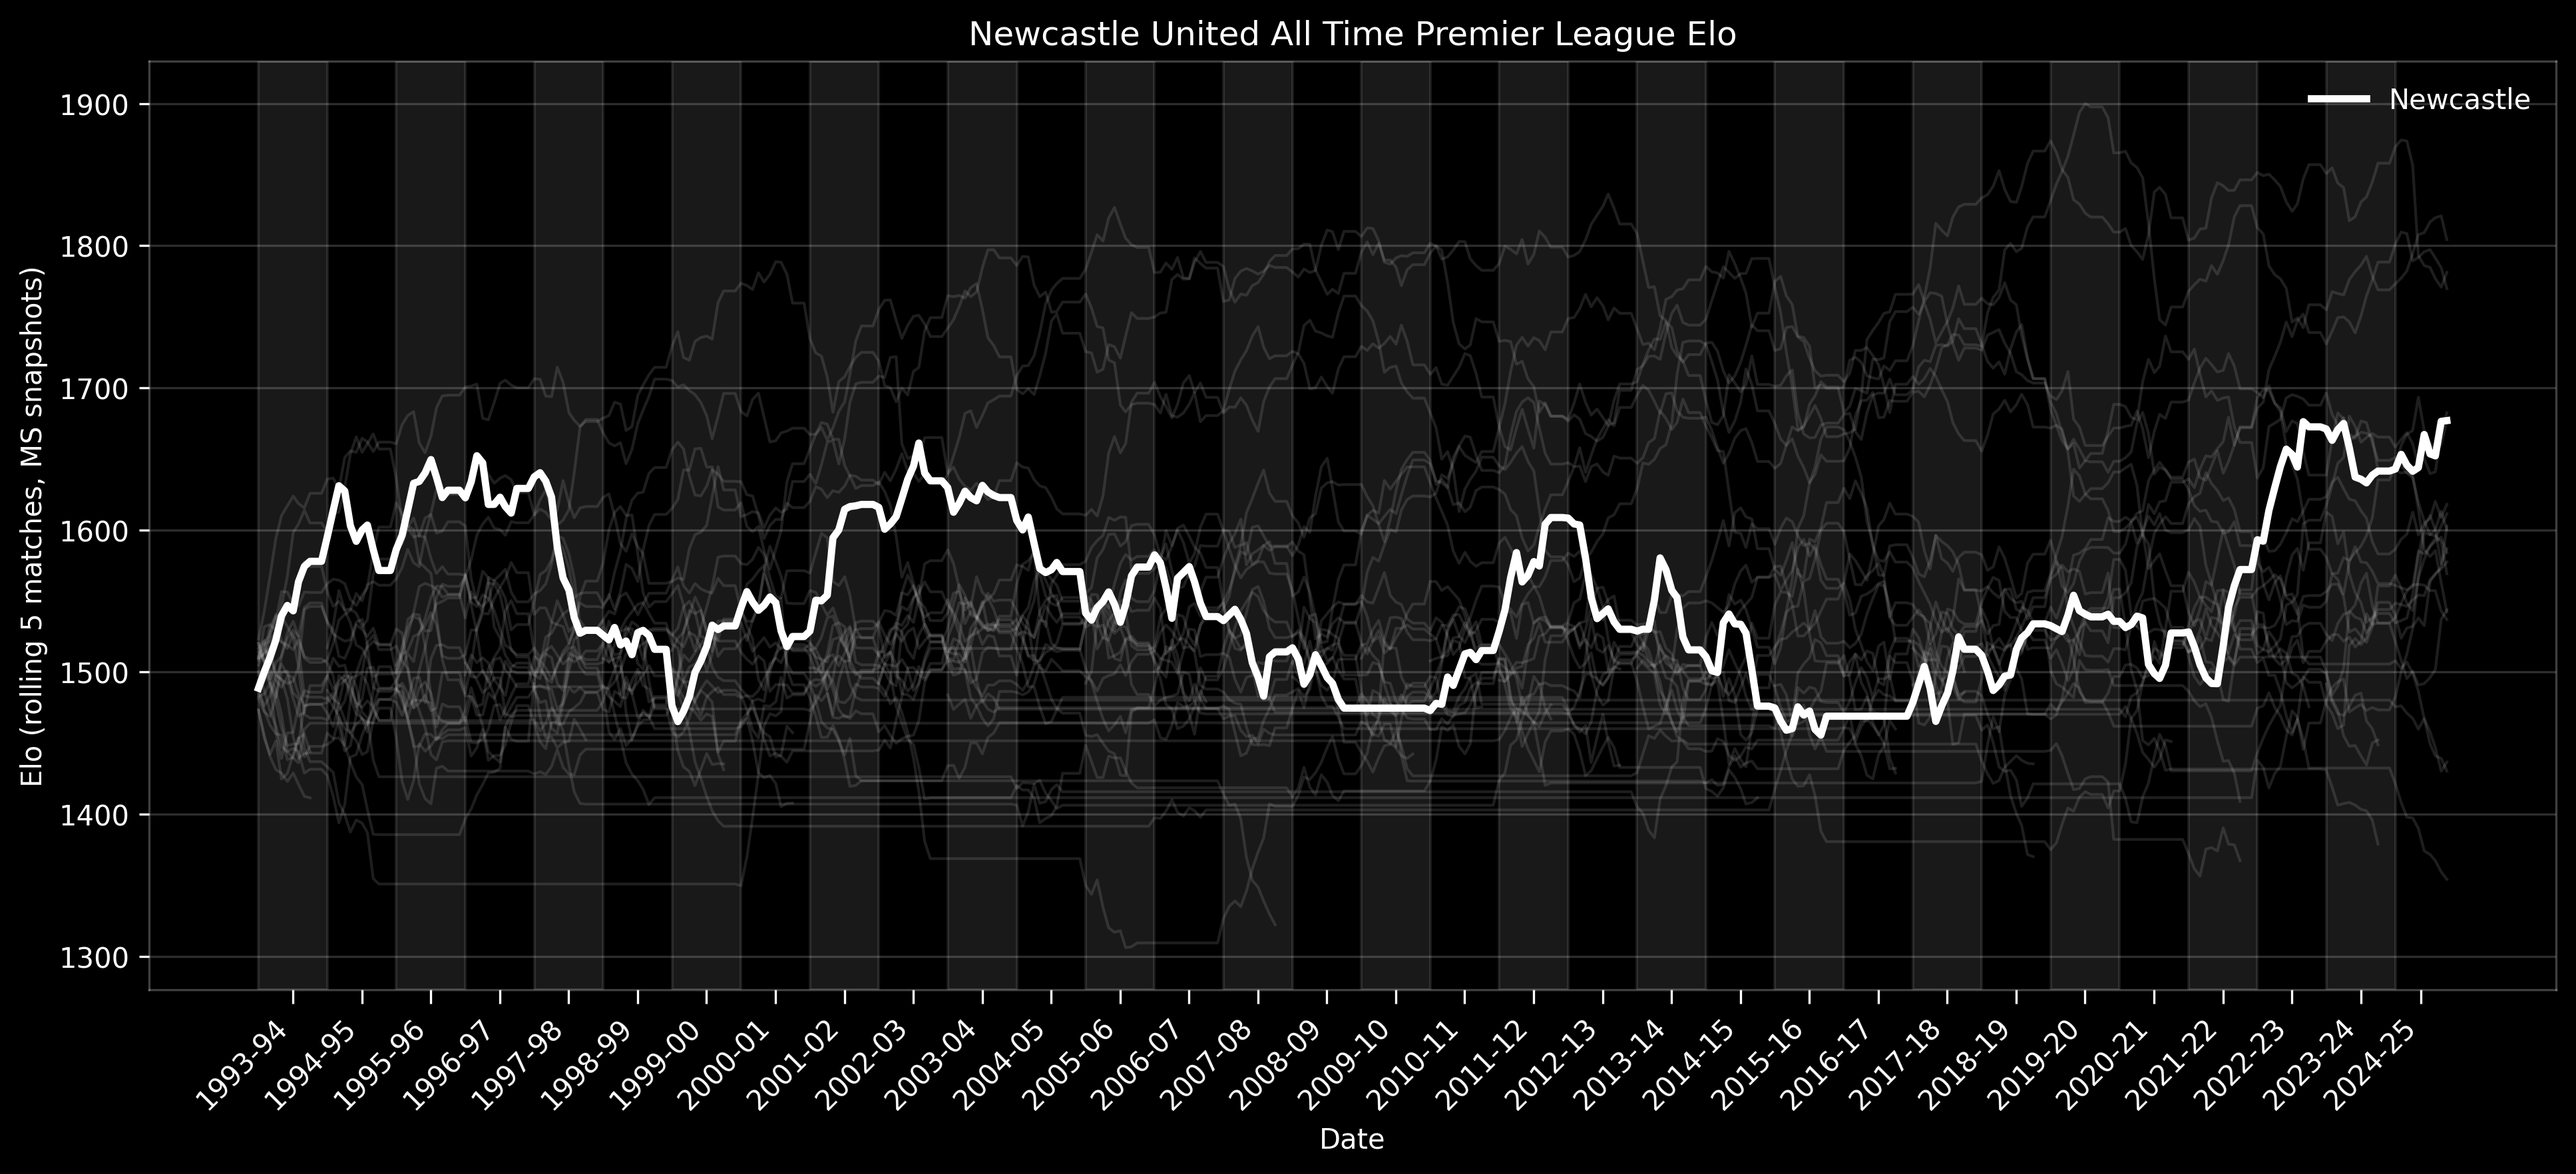
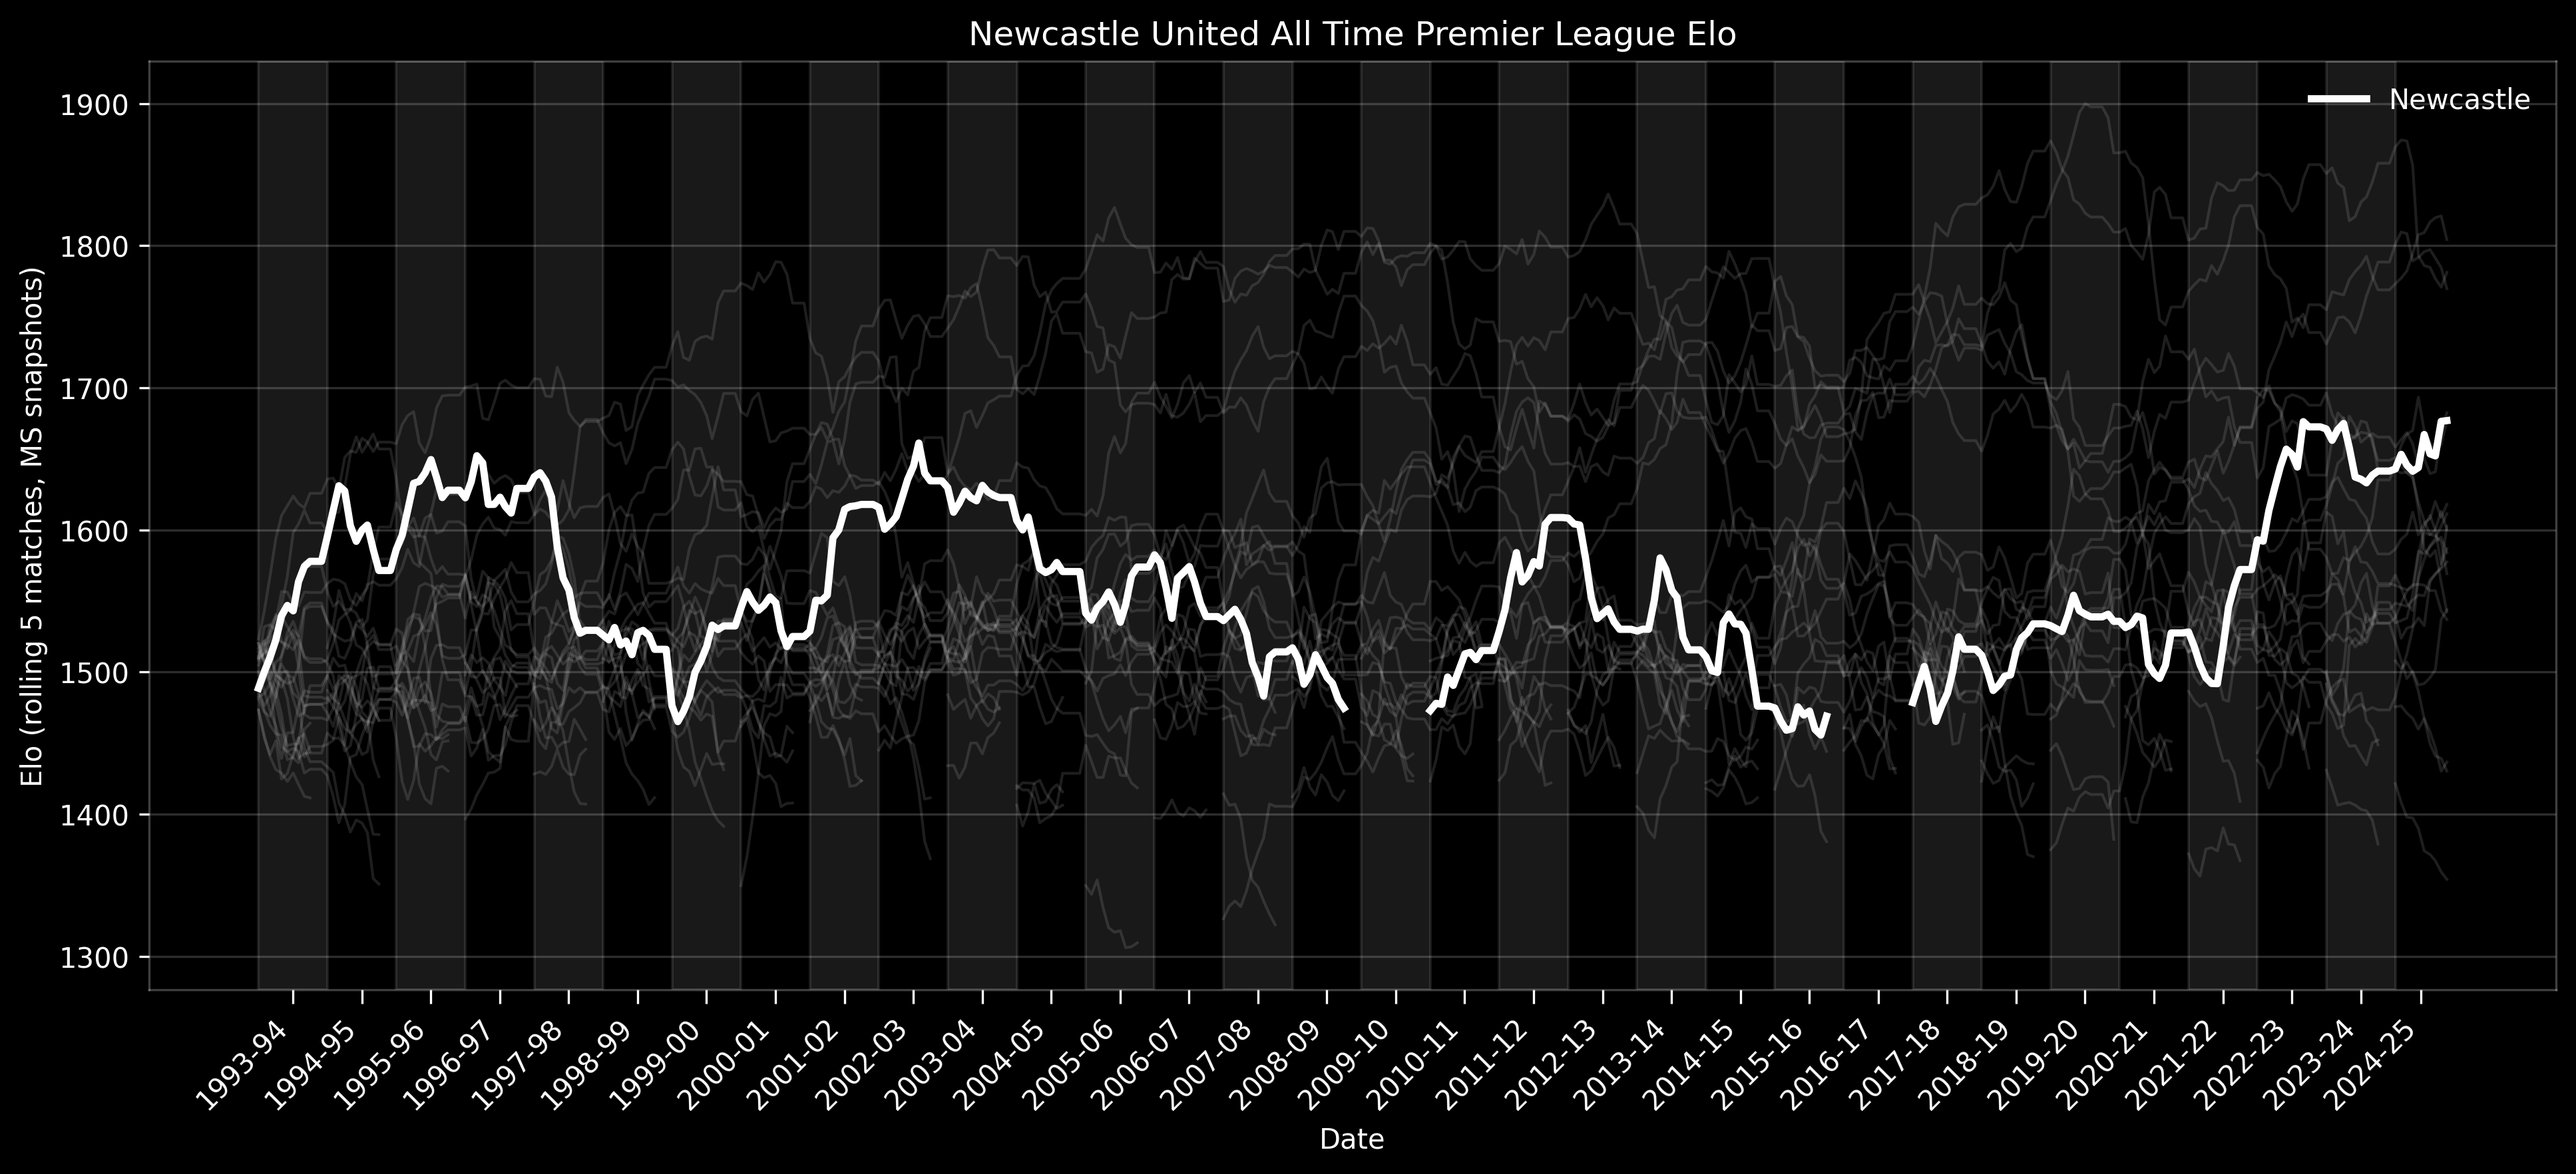
Added LeagueSpell function to break lines between relegations

Changed region(s): [[0.186, 0.5921, 0.8682, 0.6856], [0.8372, 0.6544, 0.8682, 0.6856], [0.186, 0.6544, 0.2171, 0.6856]]

diff --git a/src/plotting.py b/src/plotting.py
@@ -5,15 +5,48 @@ import matplotlib.pyplot as plt
 
 def add_season_column(df: pd.DataFrame, date_col: str = "Date") -> pd.DataFrame:
     """
-    Premier League season runs Aug–May. Label season by its start year.
-    Example: 2022-09-01 -> Season 2022 (i.e., 2022–23).
+    Premier League season runs Aug–May so create a Season Start and Season column
+    Example: 2022-09-01 -> Season Start: 2022, Season: 2022-2023
     """
     out = df.copy()
     out[date_col] = pd.to_datetime(out[date_col])
 
-    start_year = out[date_col].dt.year - (out[date_col].dt.month < 8)
+    season_start = out[date_col].dt.year - (out[date_col].dt.month < 8)
 
-    out["Season"] = start_year.astype(str) + "-" + (start_year + 1).astype(str).str[-2:]
+    out["SeasonStart"] = season_start.astype("int16")
+    out["Season"] = season_start.astype(str) + "-" + (season_start + 1).astype(str).str[-2:]
+
+    return out
+
+def add_spell_column(df: pd.DataFrame) -> pd.DataFrame:
+    """
+    Add a Spell column so lines stay connected across consecutive seasons
+    and break when a team misses one or more seasons.
+    """
+    out = df.copy()
+
+    # Unique team-season combinations
+    team_seasons = (
+        out[["Team", "SeasonStart"]]
+        .drop_duplicates()
+        .sort_values(["Team", "SeasonStart"])
+    )
+
+    # New spell whenever season gap > 1
+    team_seasons["LeagueSpell"] = (
+        team_seasons.groupby("Team")["SeasonStart"]
+        .diff()
+        .gt(1)
+        .groupby(team_seasons["Team"])
+        .cumsum()
+        .astype(int)
+    )
+
+    out = out.merge(
+        team_seasons[["Team", "SeasonStart", "LeagueSpell"]],
+        on=["Team","SeasonStart"],
+        how="left",
+    )
 
     return out
 
@@ -23,8 +56,9 @@ def prep_monthly_smoothed_elo(
     resample_rule: str = "W",  # Week start. Alternatives: "MS" month start, "M" month end
 ) -> pd.DataFrame:
     """
-    Smooth Elo per team (rolling by matches) then reduce to monthly snapshots for cleaner lines.
-    Expected columns: Date, Team, Elo
+    Smooth Elo per team, resample within each team-season,
+    and assign a Spell so plotting breaks across missed seasons
+    but stays joined across consecutive seasons in the league.
     """
     df = elo_long[["Date", "Team", "EloPost"]].copy()
     df["Date"] = pd.to_datetime(df["Date"])
@@ -32,14 +66,18 @@ def prep_monthly_smoothed_elo(
 
     # 5-game rolling average per team (match-based smoothing)
     df["EloSmooth"] = (
-        df.groupby("Team")["EloPost"]
+        df.groupby("Team", sort=False)["EloPost"]
           .transform(lambda s: s.rolling(window=smooth_games, min_periods=1).mean())
     )
 
-    # Monthly snapshot per team
-    df = df.set_index("Date")
+    # Add season metadata and continuous participation blocks
+    df = add_season_column(df)
+    df = add_spell_column(df)
+
+    # Resample only within each continous spell
     out = (
-        df.groupby("Team")["EloSmooth"]
+        df.set_index("Date")
+          .groupby(["Team", "LeagueSpell"])["EloSmooth"]
           .resample(resample_rule)
           .last()
           .ffill()
@@ -47,9 +85,10 @@ def prep_monthly_smoothed_elo(
           .rename(columns={"EloSmooth": "Elo"})
     )
 
-    out["Date"] = pd.to_datetime(out["Date"])
+    # Re-attach season labels after resampling
     out = add_season_column(out)
-    out = out.sort_values(["Team", "Date"]).reset_index(drop=True)
+
+    out = out.sort_values(["Team", "LeagueSpell", "Date"]).reset_index(drop=True)
     return out
 
 
@@ -67,6 +106,7 @@ def plot_elo_over_time(
     - 5-game rolling smoothing (match-based)
     - resampled snapshots (weekly, monthly etc.)
     - alternating grey season shading
+    - line breaks when teams relegated, lines reconnect across consecutive seasons
     - optional faint lines for all other teams + highlighted teams on top
     """
     df = prep_monthly_smoothed_elo(
@@ -99,7 +139,6 @@ def plot_elo_over_time(
     for i, start in enumerate(start_dates):
         end = start_dates[i + 1] if i + 1 < len(start_dates) else last_date
 
-        # alternate shading; on black, use a light gray with low alpha
         if i % 2 == 0:
             ax.axvspan(start, end, color="white", alpha=0.10)
 
@@ -111,10 +150,12 @@ def plot_elo_over_time(
 
     ax.tick_params(axis="x", direction="out", length=5)
 
-    # --- Plot all teams faintly for context ---
+    highlight_set = set(highlight_teams)
+
+    # Plot non-highlighted teams faintly, split by LeagueSpell
     if show_all_teams_faint:
-        for team, tdf in df.groupby("Team"):
-            if team in highlight_teams:
+        for (team, _spell), tdf in df.groupby(["Team", "LeagueSpell"], sort=False):
+            if team in highlight_set:
                 continue
             ax.plot(tdf["Date"], tdf["Elo"], linewidth=1, alpha=0.12, color="white")
 
@@ -130,18 +171,24 @@ def plot_elo_over_time(
         "Tottenham": "#132257"
     }
 
-    # --- Plot highlighted teams on top ---
+    # Plot highlighted teams, split by LeagueSpell
     for team in highlight_teams:
-        tdf = df[df["Team"] == team]
-        if tdf.empty:
+        team_df = df[df["Team"] == team]
+        if team_df.empty:
             continue
-        ax.plot(
-            tdf["Date"],
-            tdf["Elo"], 
-            linewidth=2.6, 
-            label=team,
-            color=team_colors.get(team, None)
-        )
+
+        color = team_colors.get(team, None)
+        first_segment = True
+
+        for _, seg in team_df.groupby("LeagueSpell", sort=True):
+            ax.plot(
+                seg["Date"],
+                seg["Elo"], 
+                linewidth=2.6, 
+                label=team if first_segment else None,
+                color=color
+            )
+            first_segment = False
 
     ax.set_title(title)
     ax.set_xlabel("Date")

diff --git a/plot_elo.py b/plot_elo.py
@@ -10,15 +10,15 @@ def main():
 
     plot_elo_over_time(
         elo_long=plot_df,
-        highlight_teams=["Newcastle"],
+        highlight_teams=["Arsenal","Chelsea","Liverpool","Man City", "Man United", "Tottenham"],
         smooth_games=5,
         resample_rule="MS",  # Options: "MS" monthly, "W" weekly
         show_all_teams_faint=True,
-        title="Newcastle United All Time Premier League Elo",
-        outpath="figures/nufc_alltime_pl_elo.png",
+        title="The Big 6 All Time Premier League Elo",
+        outpath="figures/big6_alltime_pl_elo.png",
     )
 
-    print("[OK] Wrote figures/nufc_alltime_pl_elo.png")
+    print("[OK] Wrote figures/big6_alltime_pl_elo.png")
 
 def filter_elo_data(
     elo_long: pd.DataFrame,
